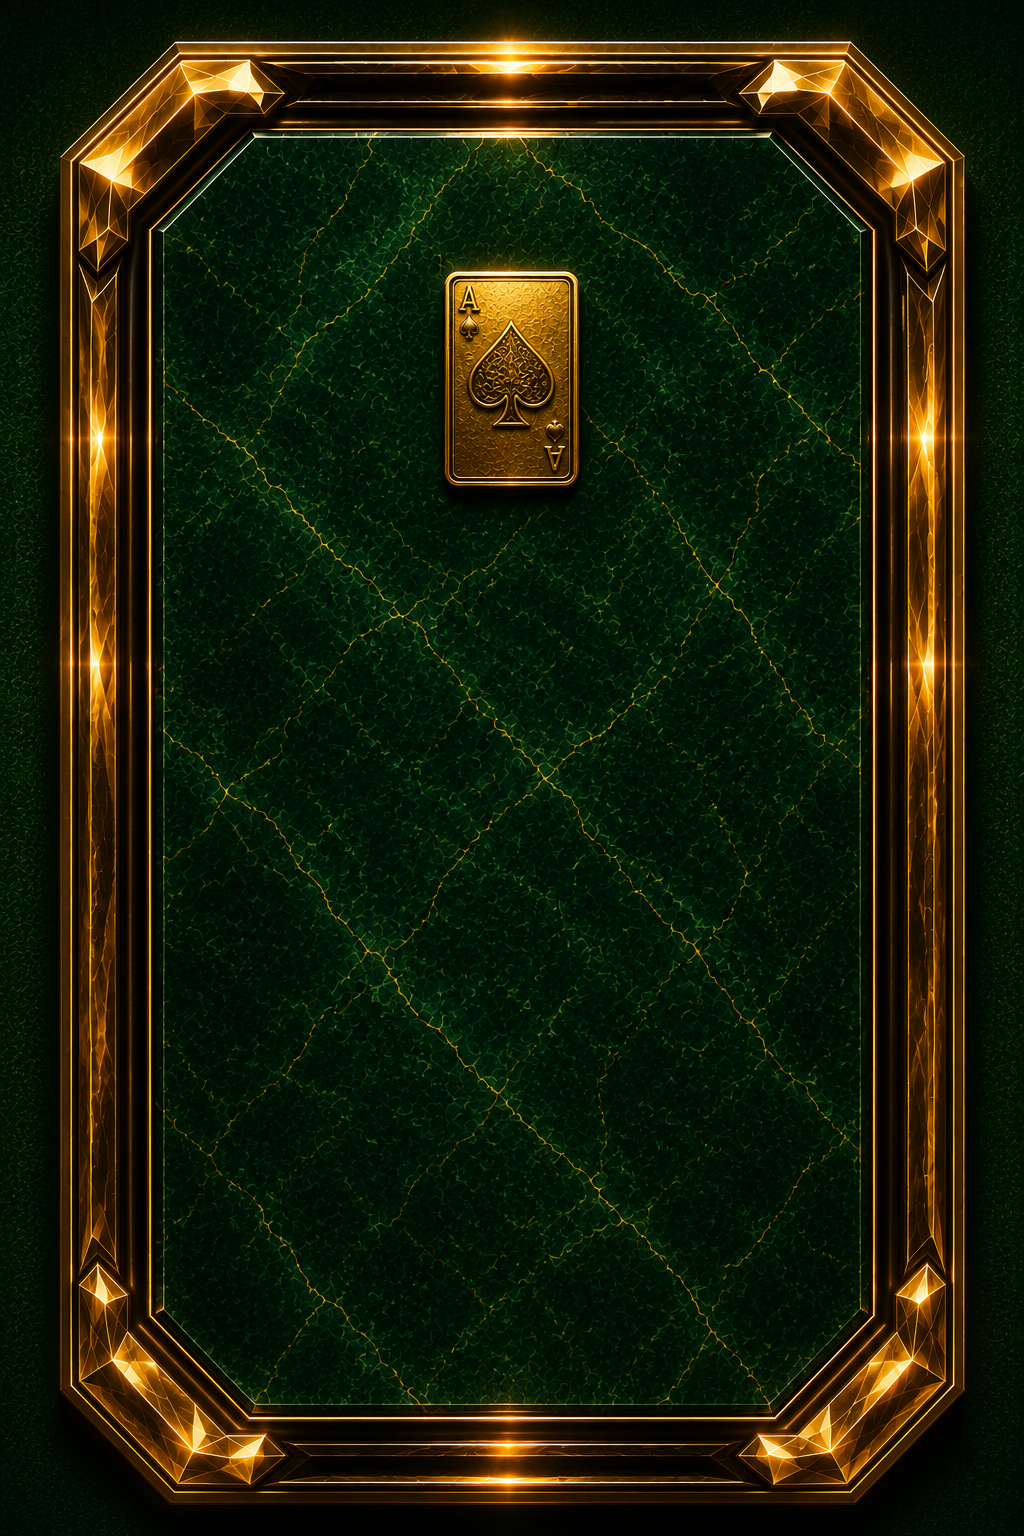
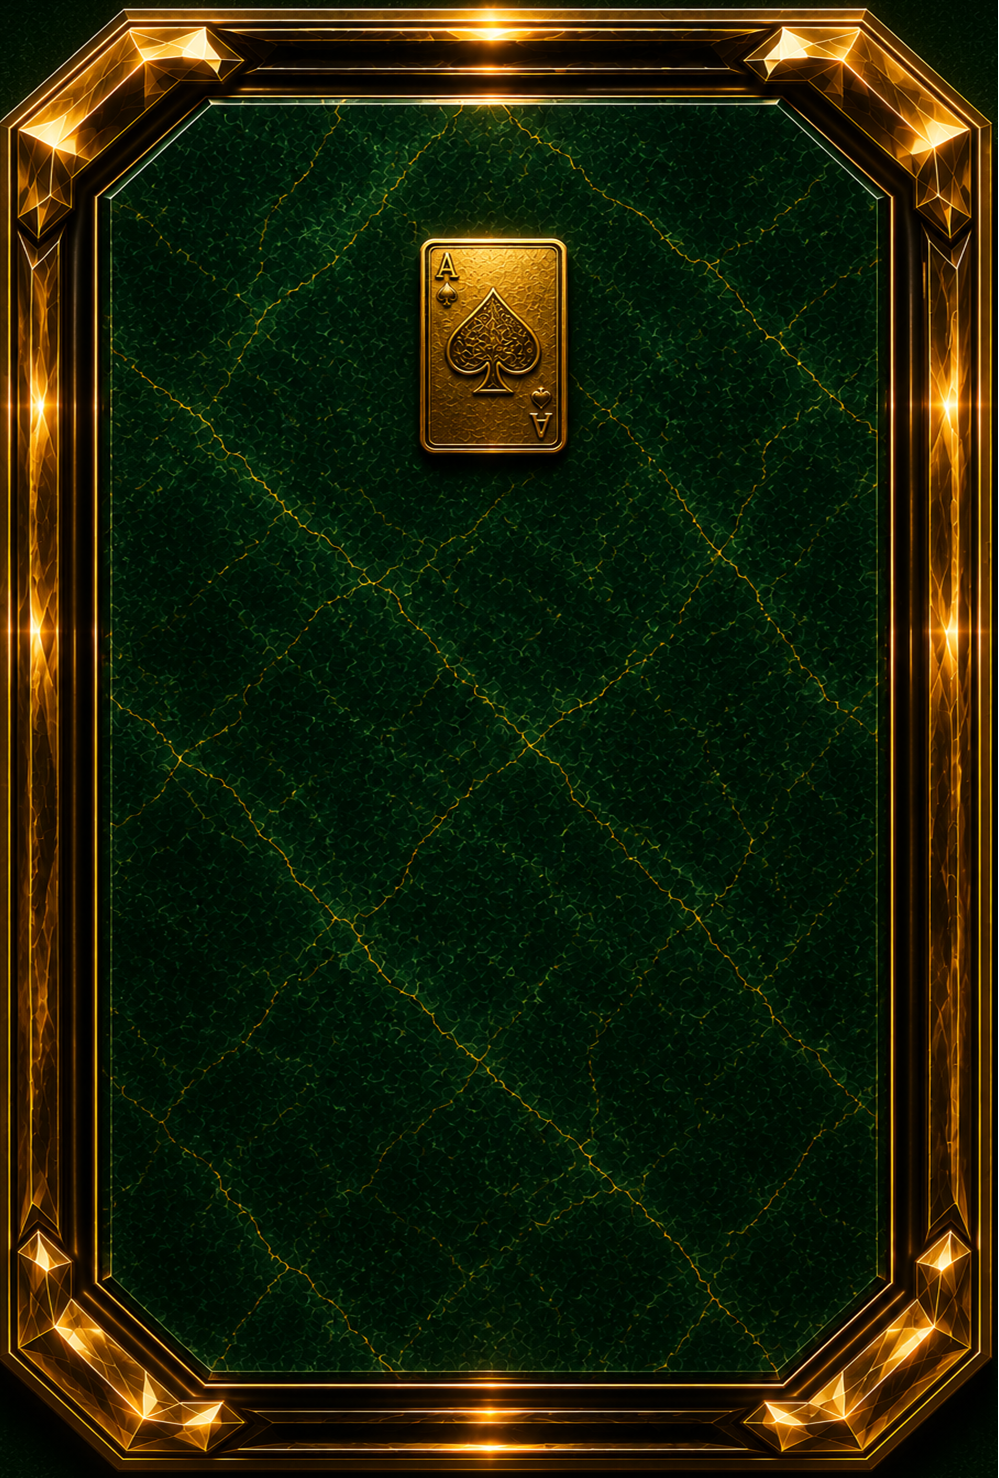
Update panel_result_bg art (wider) and sync PANEL_ASPECT_RATIO
Asset was widened by hand; ResultPanel's hardcoded aspect ratio was
still 1024x1536, which would letterbox the new 999x1478 image and
throw off the D1/D2 title/footer positioning.

diff --git a/client/src/components/ui/ResultPanel.tsx b/client/src/components/ui/ResultPanel.tsx
@@ -3,7 +3,7 @@ import { ImageBackground, StyleSheet, Text, View } from 'react-native'
 import { PANEL_IMAGES } from '../../ui/buttonManifest'
 import { UI_THEME } from '../../ui/theme'
 
-const PANEL_ASPECT_RATIO = 1024 / 1536 // panel_result_bg.png (1024×1536)
+const PANEL_ASPECT_RATIO = 999 / 1478 // panel_result_bg.png (999×1478 — ลุงแก้ภาพให้กว้างขึ้นเอง)
 
 interface ResultPanelProps {
   variant: 'victory' | 'defeat'